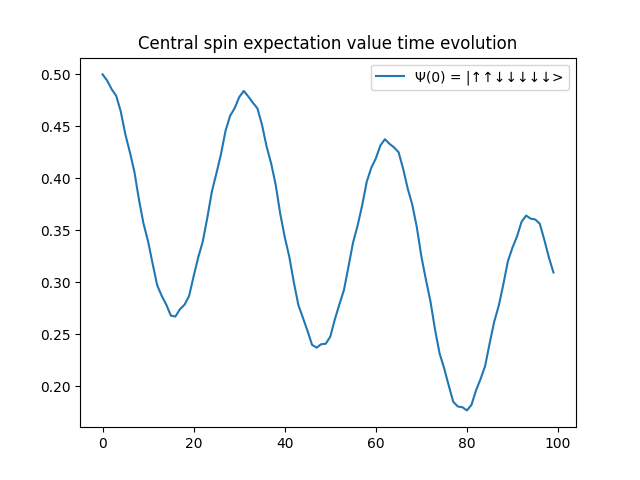
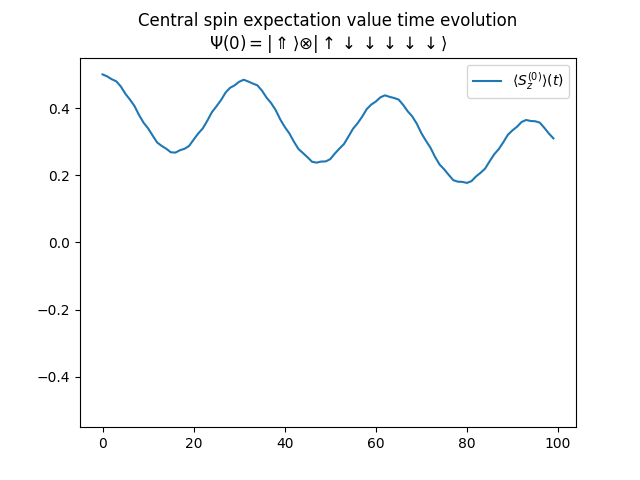
LaTeX in plots

diff --git a/internal/analysis_utilities/plot.py b/internal/analysis_utilities/plot.py
@@ -4,6 +4,12 @@ import csv
 import os
 import sys
 
+def ket_to_arrows(ket: str) -> str:
+    ket_string = ket[-1][-1].split()[-1][:-1]
+    c_spin = ket_string[0].replace('u', r'$\Uparrow$').replace('d', r'$\Downarrow$')
+    bath = ket_string[1:].replace('u', r'$\uparrow$').replace('d', r'$\downarrow$')
+    return "|" + c_spin + r"$\rangle$" + r"$\otimes$" + "|" + bath + r"$\rangle$"
+
 def plot(outdir, figdir, filename):
     with open(f"{outdir}/{filename}") as csv_file:
         metadata = []
@@ -18,11 +24,12 @@ def plot(outdir, figdir, filename):
             else:
                 metadata.append(row)
             i += 1
-    initial_ket = "|" + metadata[-1][-1].split()[-1][:-1].replace('u', '↑').replace('d', '↓') + ">"
+    initial_ket = ket_to_arrows(metadata)
     print(metadata)
-    p = plt.plot(xs, ys, label=f"Ψ(0) = {initial_ket}")
-    plt.title(metadata[0][1])
+    plt.plot(xs, ys, label=r"$\langle S_z^{(0)}\rangle(t)$")
+    plt.title(metadata[0][1] + "\n" + r"$\Psi(0) = $" + ket_to_arrows(metadata))
     plt.legend(loc='upper right')
+    plt.ylim([-0.55, 0.55])
     plt.savefig(f"{figdir}/plt-{filename}.png")
 
 if __name__ == '__main__':
